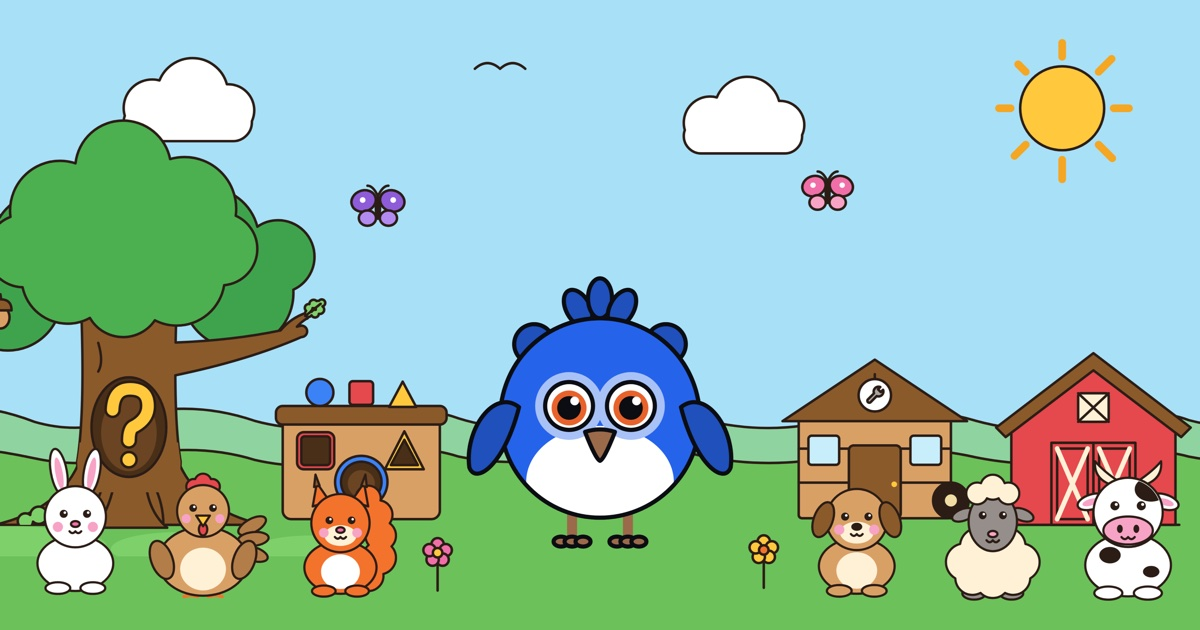
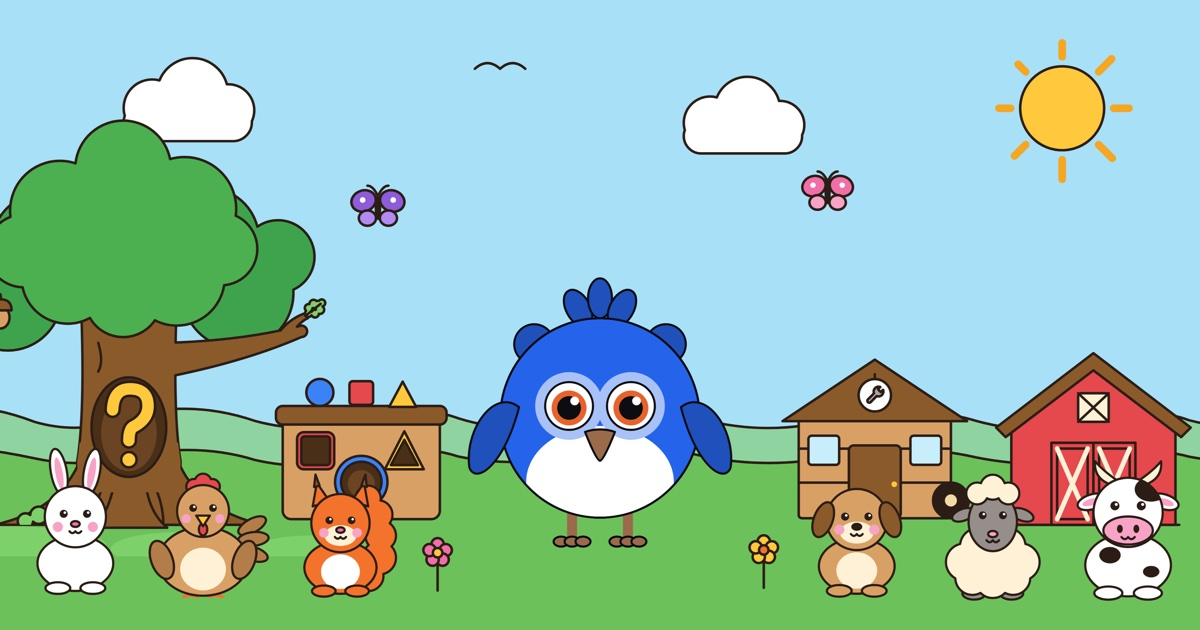
The site for 1.0.2: sixteen games with the maze, a new sharing image
The home page counts sixteen games, fourteen of them in the purchase, and
names the maze, leading a mouse to its burrow. The sharing image is cut
again from the App Store search art, with Pipit's outline as thin as the
animals' around him.

diff --git a/index.html b/index.html
@@ -4,7 +4,7 @@
 <meta charset="utf-8">
 <meta name="viewport" content="width=device-width, initial-scale=1">
 <title>Rombik Games — games for toddlers</title>
-<meta name="description" content="Fifteen calm games for toddlers aged 1–4 on a forest meadow with Pipit the bird. No ads, no timers, no data collected. In English, Ukrainian, Spanish, German, Polish and Russian.">
+<meta name="description" content="Sixteen calm games for toddlers aged 1–4 on a forest meadow with Pipit the bird. No ads, no timers, no data collected. In English, Ukrainian, Spanish, German, Polish and Russian.">
 <meta property="og:title" content="Rombik Games">
 <meta property="og:description" content="Calm games for toddlers with Pipit the bird. No ads, no timers.">
 <meta property="og:type" content="website">
@@ -147,12 +147,12 @@
         <h1 lang="de">Ruhige Spiele für Kleinkinder auf einer <em>Waldwiese</em></h1>
         <h1 lang="es">Juegos tranquilos para peques en una <em>pradera del bosque</em></h1>
         <h1 lang="pl">Spokojne gry dla maluchów na <em>leśnej łące</em></h1>
-        <p class="lead" lang="uk">П'ятнадцять ігор для дітей 1–4 років разом із пташкою Піпіт: форми, розміри, лічба, кольори, пазли й тварини. Без реклами, без таймерів і без програшів.</p>
-        <p class="lead" lang="en">Fifteen games for children aged 1–4 with Pipit the bird: shapes, sizes, counting, colours, puzzles and animals. No ads, no timers and no losing.</p>
-        <p class="lead" lang="ru">Пятнадцать игр для детей 1–4 лет вместе с птичкой Пипит: формы, размеры, счёт, цвета, пазлы и животные. Без рекламы, без таймеров и без проигрышей.</p>
-        <p class="lead" lang="de">Fünfzehn Spiele für Kinder von 1–4 Jahren mit Vogel Pipit: Formen, Größen, Zählen, Farben, Puzzles und Tiere. Ohne Werbung, ohne Zeitdruck und ohne Verlieren.</p>
-        <p class="lead" lang="es">Quince juegos para niños de 1 a 4 años con el pajarito Pipit: formas, tamaños, contar, colores, rompecabezas y animales. Sin anuncios, sin cronómetros y sin perder.</p>
-        <p class="lead" lang="pl">Piętnaście gier dla dzieci w wieku 1–4 lat z ptaszkiem Pipitem: kształty, rozmiary, liczenie, kolory, puzzle i zwierzęta. Bez reklam, bez liczników czasu i bez przegrywania.</p>
+        <p class="lead" lang="uk">Шістнадцять ігор для дітей 1–4 років разом із пташкою Піпіт: форми, розміри, лічба, кольори, пазли й тварини. Без реклами, без таймерів і без програшів.</p>
+        <p class="lead" lang="en">Sixteen games for children aged 1–4 with Pipit the bird: shapes, sizes, counting, colours, puzzles and animals. No ads, no timers and no losing.</p>
+        <p class="lead" lang="ru">Шестнадцать игр для детей 1–4 лет вместе с птичкой Пипит: формы, размеры, счёт, цвета, пазлы и животные. Без рекламы, без таймеров и без проигрышей.</p>
+        <p class="lead" lang="de">Sechzehn Spiele für Kinder von 1–4 Jahren mit Vogel Pipit: Formen, Größen, Zählen, Farben, Puzzles und Tiere. Ohne Werbung, ohne Zeitdruck und ohne Verlieren.</p>
+        <p class="lead" lang="es">Dieciséis juegos para niños de 1 a 4 años con el pajarito Pipit: formas, tamaños, contar, colores, rompecabezas y animales. Sin anuncios, sin cronómetros y sin perder.</p>
+        <p class="lead" lang="pl">Szesnaście gier dla dzieci w wieku 1–4 lat z ptaszkiem Pipitem: kształty, rozmiary, liczenie, kolory, puzzle i zwierzęta. Bez reklam, bez liczników czasu i bez przegrywania.</p>
         <div class="stores">
           <!-- pt and ct tag installs from this page as the "site" campaign in App Store Connect's App Analytics. -->
           <a class="badge" href="https://apps.apple.com/app/apple-store/id6821108809?pt=128343863&amp;ct=site&amp;mt=8">
@@ -246,12 +246,12 @@
 
   <section>
     <div class="wrap">
-      <h2 lang="uk">15 ігор на одній галявині</h2>
-      <h2 lang="en">15 games on one meadow</h2>
-      <h2 lang="ru">15 игр на одной поляне</h2>
-      <h2 lang="de">15 Spiele auf einer Wiese</h2>
-      <h2 lang="es">15 juegos en una pradera</h2>
-      <h2 lang="pl">15 gier na jednej łące</h2>
+      <h2 lang="uk">16 ігор на одній галявині</h2>
+      <h2 lang="en">16 games on one meadow</h2>
+      <h2 lang="ru">16 игр на одной поляне</h2>
+      <h2 lang="de">16 Spiele auf einer Wiese</h2>
+      <h2 lang="es">16 juegos en una pradera</h2>
+      <h2 lang="pl">16 gier na jednej łące</h2>
       <p class="sub" lang="uk">У кожній грі кілька галявинок — від найпростішої до трохи складнішої, а ігри пам'ятають, що вже показували, тож наступного разу малюка чекають інші малюнки, тварини й речі. Ми постійно додаємо нові ігри, і з кожним оновленням на галявині з'являються нові будиночки.</p>
       <p class="sub" lang="en">Each game has several clearings, from the simplest to a little harder, and the games remember what they showed, so next time brings other pictures, animals and things. We keep adding new games, and every update brings new little houses to the meadow.</p>
       <p class="sub" lang="ru">В каждой игре несколько полянок — от самой простой до чуть более сложной, а игры помнят, что уже показывали, поэтому в следующий раз малыша ждут другие картинки, животные и вещи. Мы постоянно добавляем новые игры, и с каждым обновлением на поляне появляются новые домики.</p>
@@ -260,7 +260,7 @@
       <p class="sub" lang="pl">Każda gra ma kilka polanek, od najprostszej do nieco trudniejszej, a gry pamiętają, co już pokazały, więc następnym razem czekają inne obrazki, zwierzęta i rzeczy. Stale dodajemy nowe gry, a z każdą aktualizacją na łące pojawiają się nowe domki.</p>
       <ul class="games" lang="uk">
         <li class="free" data-free="безкоштовно">Форми</li><li class="free" data-free="безкоштовно">Розміри</li>
-        <li>Лічба</li><li>Кольори</li><li>Розмальовка</li><li>Урожай</li><li>Збери ціле</li><li>Хованки</li>
+        <li>Лічба</li><li>Кольори</li><li>Мишачий лабіринт</li><li>Розмальовка</li><li>Урожай</li><li>Збери ціле</li><li>Хованки</li>
         <li>Нагодуй звірят</li><li>Знайди пару</li><li>Що буде далі</li><li>Мама і малюк</li>
         <li>Помий звірят</li><li>Проведи доріжкою</li><li>Пазл</li>
         <li class="free" data-free="безкоштовно, взимку">Прикрась ялинку</li>
@@ -268,7 +268,7 @@
       </ul>
       <ul class="games" lang="en">
         <li class="free" data-free="free">Shapes</li><li class="free" data-free="free">Sizes</li>
-        <li>Counting</li><li>Colours</li><li>Colouring</li><li>Harvest</li><li>Building</li><li>Hide and seek</li>
+        <li>Counting</li><li>Colours</li><li>Mouse maze</li><li>Colouring</li><li>Harvest</li><li>Building</li><li>Hide and seek</li>
         <li>Feeding</li><li>Find a pair</li><li>What comes next</li><li>Mother and baby</li>
         <li>Wash the animals</li><li>Lead the way home</li><li>Puzzle</li>
         <li class="free" data-free="free, in winter">Decorate the tree</li>
@@ -276,7 +276,7 @@
       </ul>
       <ul class="games" lang="ru">
         <li class="free" data-free="бесплатно">Формы</li><li class="free" data-free="бесплатно">Размеры</li>
-        <li>Счёт</li><li>Цвета</li><li>Раскраска</li><li>Урожай</li><li>Собери целое</li><li>Прятки</li>
+        <li>Счёт</li><li>Цвета</li><li>Мышкин лабиринт</li><li>Раскраска</li><li>Урожай</li><li>Собери целое</li><li>Прятки</li>
         <li>Покорми зверят</li><li>Найди пару</li><li>Что будет дальше</li><li>Мама и малыш</li>
         <li>Помой зверят</li><li>Проведи по дорожке</li><li>Пазл</li>
         <li class="free" data-free="бесплатно, зимой">Наряди ёлку</li>
@@ -284,7 +284,7 @@
       </ul>
       <ul class="games" lang="de">
         <li class="free" data-free="kostenlos">Formen</li><li class="free" data-free="kostenlos">Größen</li>
-        <li>Zählen</li><li>Farben</li><li>Ausmalen</li><li>Ernte</li><li>Bauen</li><li>Verstecken</li>
+        <li>Zählen</li><li>Farben</li><li>Mäuselabyrinth</li><li>Ausmalen</li><li>Ernte</li><li>Bauen</li><li>Verstecken</li>
         <li>Füttern</li><li>Paare finden</li><li>Was kommt danach</li><li>Mama und Kind</li>
         <li>Tiere waschen</li><li>Zeig den Weg nach Hause</li><li>Puzzle</li>
         <li class="free" data-free="kostenlos, im Winter">Schmück den Baum</li>
@@ -292,7 +292,7 @@
       </ul>
       <ul class="games" lang="es">
         <li class="free" data-free="gratis">Formas</li><li class="free" data-free="gratis">Tamaños</li>
-        <li>Contar</li><li>Colores</li><li>Colorear</li><li>Cosecha</li><li>Construir</li><li>Escondite</li>
+        <li>Contar</li><li>Colores</li><li>Laberinto del ratón</li><li>Colorear</li><li>Cosecha</li><li>Construir</li><li>Escondite</li>
         <li>Dar de comer</li><li>Busca la pareja</li><li>¿Qué sigue?</li><li>Mamá y bebé</li>
         <li>Baña a los animales</li><li>Camino a casa</li><li>Rompecabezas</li>
         <li class="free" data-free="gratis, en invierno">Decora el árbol</li>
@@ -300,7 +300,7 @@
       </ul>
       <ul class="games" lang="pl">
         <li class="free" data-free="za darmo">Kształty</li><li class="free" data-free="za darmo">Rozmiary</li>
-        <li>Liczenie</li><li>Kolory</li><li>Kolorowanka</li><li>Zbiory</li><li>Budowanie</li><li>W chowanego</li>
+        <li>Liczenie</li><li>Kolory</li><li>Mysi labirynt</li><li>Kolorowanka</li><li>Zbiory</li><li>Budowanie</li><li>W chowanego</li>
         <li>Nakarm zwierzątka</li><li>Znajdź parę</li><li>Co będzie dalej</li><li>Mama i maluch</li>
         <li>Umyj zwierzątka</li><li>Prowadź do domu</li><li>Puzzle</li>
         <li class="free" data-free="za darmo, zimą">Ubierz choinkę</li>
@@ -350,7 +350,7 @@
       <h2 lang="pl">Dla rodziców</h2>
       <ul lang="uk">
         <li>Дві ігри — «Форми» й «Розміри» — безкоштовні назавжди.</li>
-        <li>Інші тринадцять відкриває одна покупка. Нові ігри ми додаємо постійно — і вони відкриються разом із нею, без доплат.</li>
+        <li>Інші чотирнадцять відкриває одна покупка. Нові ігри ми додаємо постійно — і вони відкриються разом із нею, без доплат.</li>
         <li>Покупки й налаштування сховані за прикладом для дорослих, тож малюк не натрапить на них випадково. Замкнений будиночок теж веде до покупки лише через цей приклад.</li>
         <li>З 1 грудня до 14 січня галявина стає зимовою, а біля дуба виростає ялинка, яку можна прикрасити, — ця святкова гра безкоштовна для всіх.</li>
         <li>Мова — українська, англійська, німецька, іспанська, польська чи російська, музику можна вимкнути на сторінці для батьків. Там же підказка, як закріпити екран, щоб малюк випадково не вийшов із гри, і кнопки, щоб оцінити застосунок, поділитися ним і написати нам.</li>
@@ -358,7 +358,7 @@
       </ul>
       <ul lang="en">
         <li>Two games — Shapes and Sizes — are free for good.</li>
-        <li>One purchase opens the other thirteen. We keep adding new games, and they open with it too, at no extra cost.</li>
+        <li>One purchase opens the other fourteen. We keep adding new games, and they open with it too, at no extra cost.</li>
         <li>Purchases and settings sit behind a sum for grown-ups, so little ones can't reach them by accident. A locked house leads to the purchase only through that sum too.</li>
         <li>From 1 December to 14 January the meadow turns wintry and a fir grows by the oak, ready to be decorated: this holiday game is free for everyone.</li>
         <li>English, Ukrainian, German, Spanish, Polish or Russian; background music can be switched off on the parents' page. It also shows how to pin the screen so a little one can't leave the game by accident, with buttons to rate the app, share it and write to us.</li>
@@ -366,7 +366,7 @@
       </ul>
       <ul lang="ru">
         <li>Две игры — «Формы» и «Размеры» — бесплатны навсегда.</li>
-        <li>Остальные тринадцать открывает одна покупка. Новые игры мы добавляем постоянно — и они откроются вместе с ней, без доплат.</li>
+        <li>Остальные четырнадцать открывает одна покупка. Новые игры мы добавляем постоянно — и они откроются вместе с ней, без доплат.</li>
         <li>Покупки и настройки спрятаны за примером для взрослых, поэтому малыш не наткнётся на них случайно. Закрытый домик тоже ведёт к покупке только через этот пример.</li>
         <li>С 1 декабря по 14 января поляна становится зимней, а у дуба вырастает ёлка, которую можно нарядить, — эта праздничная игра бесплатна для всех.</li>
         <li>Язык — русский, английский, украинский, немецкий, испанский или польский, музыку можно выключить на странице для родителей. Там же подсказка, как закрепить экран, чтобы малыш случайно не вышел из игры, и кнопки, чтобы оценить приложение, поделиться им и написать нам.</li>
@@ -374,7 +374,7 @@
       </ul>
       <ul lang="de">
         <li>Zwei Spiele – Formen und Größen – sind für immer kostenlos.</li>
-        <li>Ein Kauf öffnet die anderen dreizehn. Wir fügen ständig neue Spiele hinzu, und sie öffnen sich ohne Aufpreis mit.</li>
+        <li>Ein Kauf öffnet die anderen vierzehn. Wir fügen ständig neue Spiele hinzu, und sie öffnen sich ohne Aufpreis mit.</li>
         <li>Käufe und Einstellungen liegen hinter einer Rechenaufgabe für Erwachsene, damit Kleine sie nicht aus Versehen erreichen. Auch ein verschlossenes Häuschen führt nur über diese Aufgabe zum Kauf.</li>
         <li>Vom 1. Dezember bis 14. Januar wird die Wiese winterlich, und neben der Eiche wächst ein Tannenbaum zum Schmücken: Dieses Feiertagsspiel ist für alle kostenlos.</li>
         <li>Deutsch, Englisch, Ukrainisch, Spanisch, Polnisch oder Russisch; die Musik lässt sich auf der Elternseite ausschalten. Dort steht auch, wie man den Bildschirm fixiert, damit die Kleinen das Spiel nicht aus Versehen verlassen, mit Knöpfen, um die App zu bewerten, zu teilen und uns zu schreiben.</li>
@@ -382,7 +382,7 @@
       </ul>
       <ul lang="es">
         <li>Dos juegos, Formas y Tamaños, son gratis para siempre.</li>
-        <li>Una sola compra abre los otros trece. Añadimos juegos nuevos constantemente, y se abren con ella sin coste extra.</li>
+        <li>Una sola compra abre los otros catorce. Añadimos juegos nuevos constantemente, y se abren con ella sin coste extra.</li>
         <li>Las compras y los ajustes están detrás de una suma para adultos, así que los peques no llegan a ellos por accidente. Una casita cerrada también lleva a la compra solo a través de esa suma.</li>
         <li>Del 1 de diciembre al 14 de enero la pradera se vuelve invernal y junto al roble crece un abeto para decorar: este juego navideño es gratis para todos.</li>
         <li>Español, inglés, ucraniano, alemán, polaco o ruso; la música se puede apagar en la página para padres. Allí también se explica cómo fijar la pantalla para que el peque no salga del juego sin querer, con botones para valorar la app, compartirla y escribirnos.</li>
@@ -390,7 +390,7 @@
       </ul>
       <ul lang="pl">
         <li>Dwie gry – Kształty i Rozmiary – są darmowe na zawsze.</li>
-        <li>Jeden zakup otwiera pozostałe trzynaście. Stale dodajemy nowe gry, a one otworzą się razem z nim, bez dopłat.</li>
+        <li>Jeden zakup otwiera pozostałe czternaście. Stale dodajemy nowe gry, a one otworzą się razem z nim, bez dopłat.</li>
         <li>Zakupy i ustawienia są ukryte za działaniem dla dorosłych, więc maluch nie trafi na nie przypadkiem. Zamknięty domek też prowadzi do zakupu tylko przez to działanie.</li>
         <li>Od 1 grudnia do 14 stycznia łąka staje się zimowa, a przy dębie wyrasta choinka do ubrania – ta świąteczna gra jest darmowa dla wszystkich.</li>
         <li>Polski, angielski, ukraiński, niemiecki, hiszpański lub rosyjski; muzykę można wyłączyć na stronie dla rodziców. Jest tam też podpowiedź, jak przypiąć ekran, żeby maluch przypadkiem nie wyszedł z gry, oraz przyciski, by ocenić aplikację, udostępnić ją i napisać do nas.</li>
